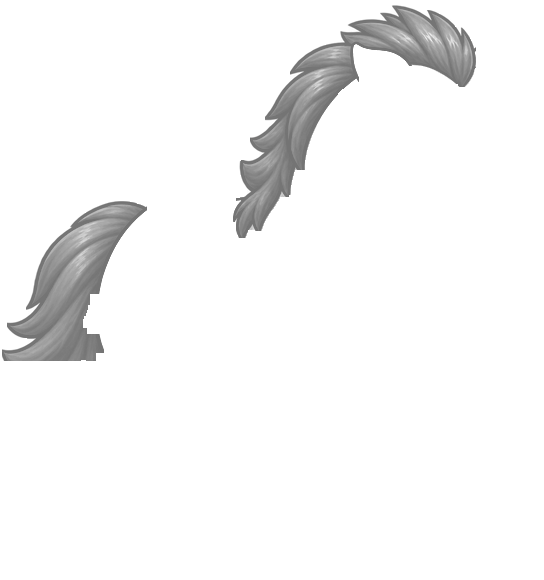
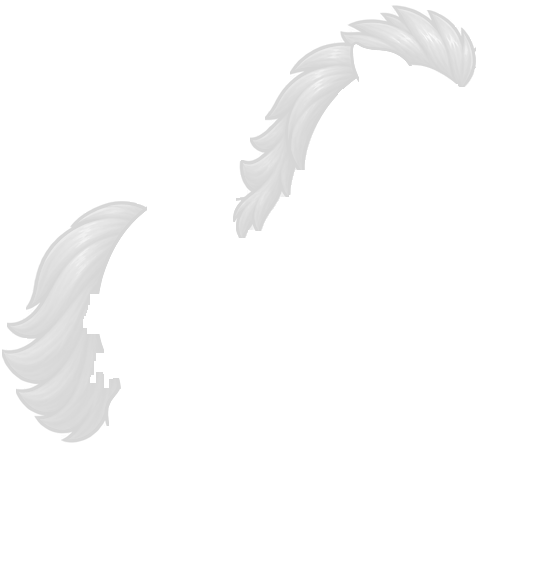
第 3 便の指摘 1 に対応: たてがみの層を明るい灰で抜き直し、尾の先まで含めた
デザイナー指摘:
  ① 層が暗すぎる（平均 140 / 255）。掛け算では 55% より明るくならず、亜麻・白銀が沈む
  ② 尾の先が層に入っていない。明るいたてがみにすると尾の先だけ黒く残る

直したこと:
- 明るさ 平均 140 → ★221 / 255（指定は 224 前後）
- 尾の先まで含めた。上 62% で切っていたのを 82% に広げ、代わりに
  「下側にしか無い塊」（蹄・脚の飾り毛）を落とす規則に変えた
  ★位置で個別に外すのではなく、塊の性質で外している（別の絵にも使えるように）

⚠ 5 色は依然として仮。デザイナーの 5 色（墨・焦茶・赤栗・亜麻・白銀）に差し替える。

Changed region(s): [[0.4062, 0.0, 0.875, 0.4345], [0.0, 0.3414, 0.2812, 0.7759]]

diff --git a/apps/web/src/app/design-check/page.tsx b/apps/web/src/app/design-check/page.tsx
@@ -275,7 +275,7 @@ export default function DesignCheckPage(): React.ReactElement {
           たてがみ・尾の色（★仕組みの確認だけ・色は仮）
         </h2>
         <p style={{ margin: '0 0 8px', fontSize: 11, color: '#9fb6cc', lineHeight: 1.7 }}>
-🔴 この 5 色は開発側が仮に置いたもので、捨てます（色を決めるのはデザイナーです）。
+🔴 この 5 色は仮です（デザイナーの第 3 便の値に差し替えます）。層は指定どおり明るい灰（平均 221 / 255）で抜き直し、尾の先まで含めました。
           ここで見てほしいのは仕組みだけです — たてがみの層は中間の灰色で 1 枚（12 KB）持ち、色は画面で掛けています。
           毛色ごとに焼き分けていないので、焼いた素材は増えません。
         </p>
